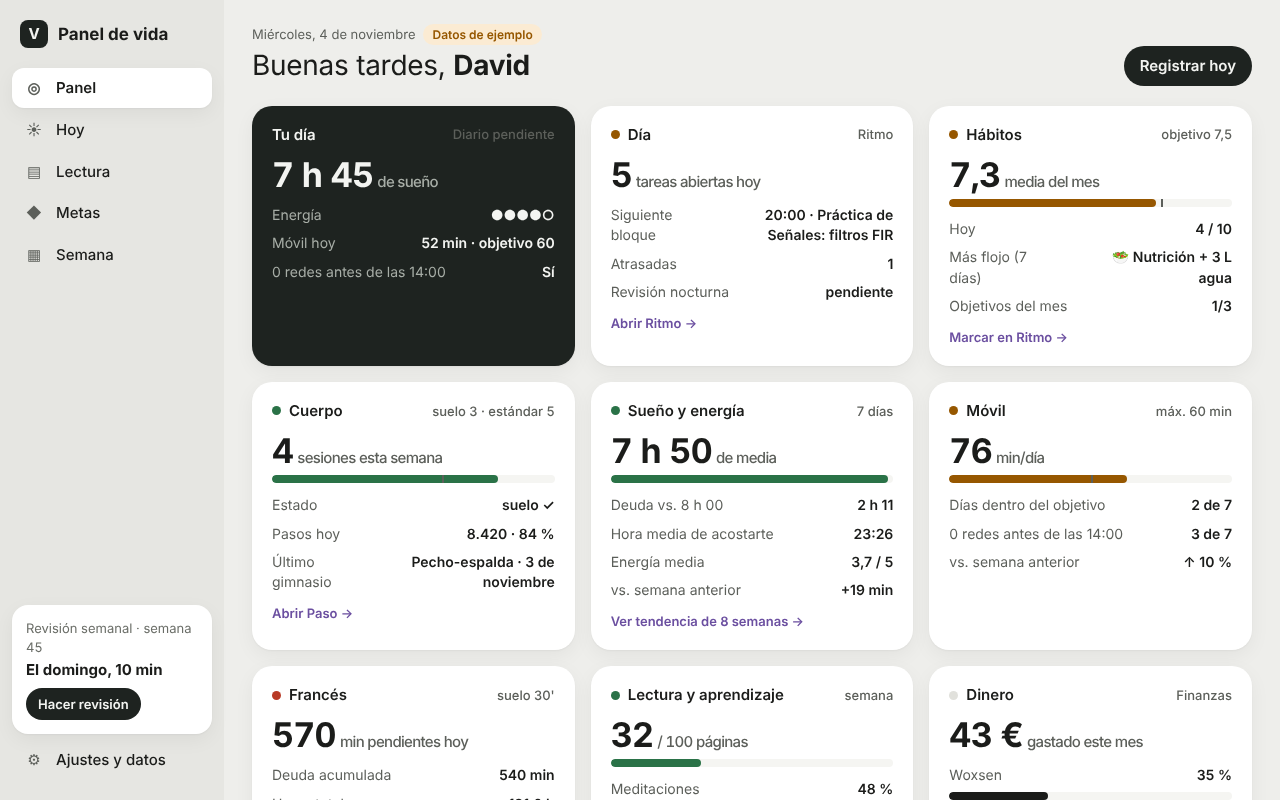
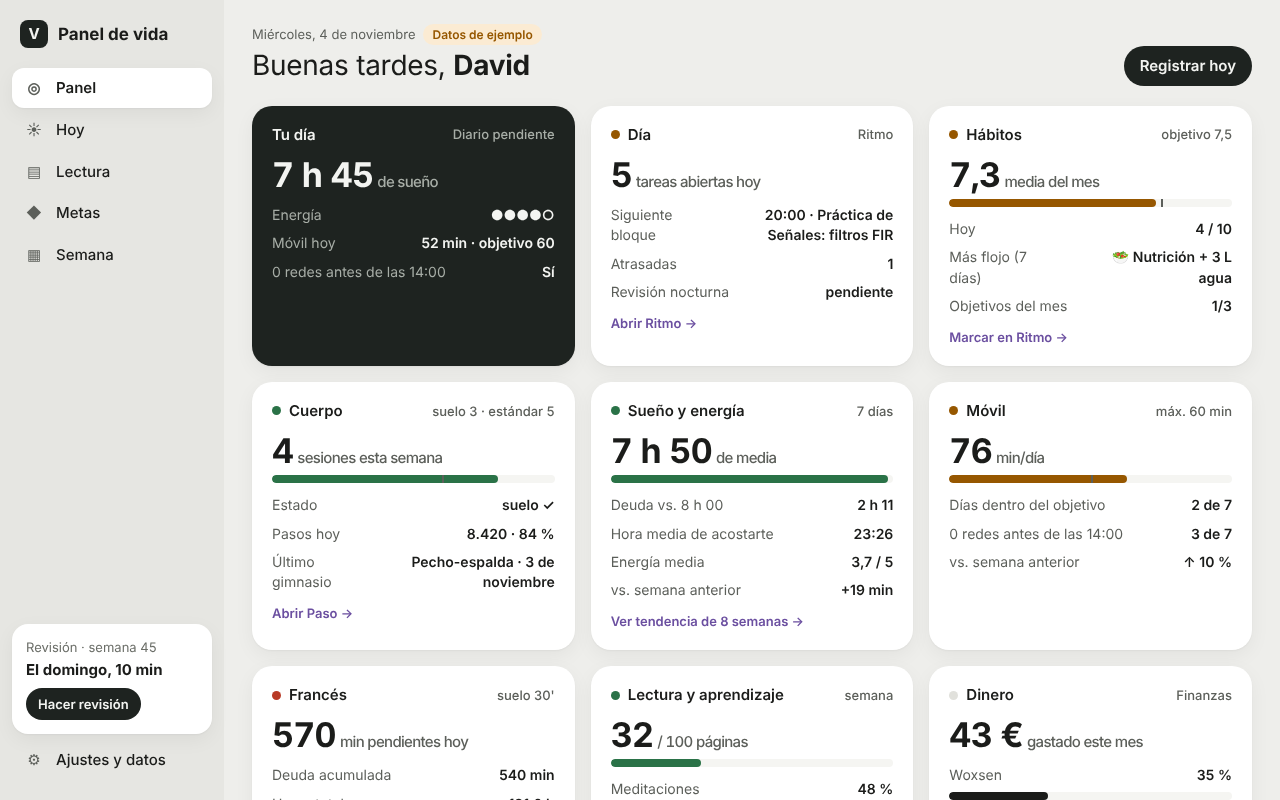
Revisión QA del Panel y de la capa sin conexión (34 fallos) + Importar salud en la caché sin conexión
- Panel: un dato raro de otra app ya no deja la página en blanco, horas sin perder dígitos, foco con teclado,
  correcciones de lectura, demo que no borra tus datos, revisión del lunes de madrugada, fechas locales (India)
- sw.js: sin fallos con red lenta, deploys visibles al momento, versión por hash, carpetas sin barra
- 29: no sobrescribe datos dañados de Paso o del Panel; incluida en la caché sin conexión

Claude-Session: https://claude.ai/code/session_01EwHxjkazRTL95ooTegBwNP

Changed region(s): [[0.0, 0.75, 0.1875, 0.8125], [0.3438, 0.1562, 0.4375, 0.1875]]

diff --git a/28-panel-vida/tests/smoke.js b/28-panel-vida/tests/smoke.js
@@ -155,7 +155,93 @@ function check(c, msg) { if (!c) throw new Error("FALLO: " + msg); }
       check(over <= 0, `scroll horizontal a 360 px en ${r} (${scheme}): ${over}px`);
     }
   }
+
+  // 10 · regresiones de la revisión QA (contextos aparte: no tocan las capturas)
+  const SPY = () => {
+    const set = Storage.prototype.setItem, del = Storage.prototype.removeItem, clr = Storage.prototype.clear;
+    const log = (k) => { const a = JSON.parse(sessionStorage.getItem("__w") || "[]"); a.push(k); set.call(sessionStorage, "__w", JSON.stringify(a)); };
+    Storage.prototype.setItem = function (k, v) { if (this === localStorage) log(k); return set.call(this, k, v); };
+    Storage.prototype.removeItem = function (k) { if (this === localStorage) log("-" + k); return del.call(this, k); };
+    Storage.prototype.clear = function () { if (this === localStorage) log("CLEAR"); return clr.call(this); };
+  };
+  const writes = async (pg) => JSON.parse(await pg.evaluate(() => sessionStorage.getItem("__w") || "[]"));
+  const qa = await browser.newContext({ viewport: { width: 1280, height: 800 }, locale: "es-ES", timezoneId: "Europe/Madrid", acceptDownloads: true });
+  await qa.addInitScript((f) => { if (!sessionStorage.getItem("__seeded")) { sessionStorage.setItem("__seeded", "1"); for (const [k, v] of Object.entries(f)) localStorage.setItem(k, v); } }, foreign);
+  await qa.addInitScript(SPY);
+  const a = await qa.newPage(); a.on("pageerror", (e) => errors.push("qa: " + e.message)); a.on("dialog", (d) => d.accept());
+  await a.clock.install({ time: new Date("2026-11-04T19:10:00+01:00") });
+  await a.goto(URL + "#/hoy"); await a.waitForSelector("[data-day]");
+  // a) cambiar la hora no redibuja el campo (en Chrome «change» llega a mitad de escribir) y el cálculo se actualiza
+  await a.evaluate(() => { const i = document.querySelector('[data-f="bed"]'); i.__same = 1; i.focus(); i.value = "23:04"; i.dispatchEvent(new Event("change", { bubbles: true })); });
+  check(await a.evaluate(() => document.querySelector('[data-f="bed"]').__same === 1 && document.activeElement.dataset.f === "bed"), "el campo de hora sigue siendo el mismo y con el foco");
+  await a.evaluate(() => { const i = document.querySelector('[data-f="wake"]'); i.value = "07:04"; i.dispatchEvent(new Event("change", { bubbles: true })); });
+  check((await a.textContent("#sleepCalc")).includes("8 h 00") && (await a.textContent("#hoyWeek")).includes("8 h 00"), "horas dormidas y tabla al día sin redibujar");
+  // b) energía con teclado: el foco se queda en el botón
+  await a.focus('[data-energy="3"]'); await a.keyboard.press("Enter");
+  check(await a.evaluate(() => document.activeElement.dataset.energy === "3" && document.activeElement.getAttribute("aria-pressed") === "true"), "energía con Enter conserva el foco");
+  await a.keyboard.press("Tab"); await a.keyboard.press("Space");
+  check(JSON.parse(await a.evaluate(() => localStorage.getItem("panel.v1"))).days[T].energy === 4, "energía con Tab + Espacio");
+  // c) «Voy por» vacío no devuelve el libro a la página 0
+  await a.goto(URL + "#/lectura"); await a.fill('#bookForm [name="title"]', "Cartas a Lucilio"); await a.fill('#bookForm [name="total"]', "300"); await a.click("#bookForm button");
+  await a.goto(URL + "#/hoy"); await a.fill('form[data-read] [name="p"]', "40"); await a.click("form[data-read] button");
+  await a.fill('form[data-read] [name="p"]', ""); await a.fill('form[data-read] [name="m"]', "20"); await a.click("form[data-read] button");
+  st = JSON.parse(await a.evaluate(() => localStorage.getItem("panel.v1")));
+  check(st.books[0].progress === 40 && st.readLog.reduce((x, r) => x + r.amount, 0) === 40, "minutos sin página: el libro sigue en la 40");
+  // d) uso normal (revisión, metas, ajustes, ejemplo y quitarlo, exportar) solo escribe panel.v1
+  await a.goto(URL + "#/semana"); await a.click('[data-score="7"]'); await a.click("#reviewForm button.primary");
+  check(/^2026-11-04 19:10$/.test(JSON.parse(await a.evaluate(() => localStorage.getItem("panel.v1"))).reviews["2026-W45"].at), "hora de la revisión en hora local");
+  await a.goto(URL + "#/ajustes"); await a.fill('#setForm [name="pagesWeekGoal"]', ""); await a.click("#setForm button.primary");
+  check(JSON.parse(await a.evaluate(() => localStorage.getItem("panel.v1"))).settings.pagesWeekGoal === 100, "campo vacío conserva el valor");
+  await a.click("#loadDemo"); await a.waitForSelector("#clearDemo"); await a.click("#clearDemo"); await a.waitForSelector("#loadDemo");
+  st = JSON.parse(await a.evaluate(() => localStorage.getItem("panel.v1")));
+  check(!st.demo && st.books[0].title === "Cartas a Lucilio" && st.reviews["2026-W45"], "quitar los ejemplos devuelve tu Panel");
+  await Promise.all([a.waitForEvent("download"), a.click("#exportPanel")]);
+  for (const r of ["#/panel", "#/metas", "#/lectura"]) { await a.goto(URL + r); await a.waitForSelector(".card"); }
+  const w = await writes(a);
+  check(w.length > 5 && w.every((k) => k === "panel.v1"), "solo se escribe panel.v1: " + [...new Set(w)]);
+  for (const k of Object.keys(foreign)) check((await a.evaluate((x) => localStorage.getItem(x), k)) === foreign[k], "uso normal no toca " + k);
+  // e) dos pestañas: lo que apuntas en una aparece en la otra
+  const b2 = await qa.newPage(); b2.on("pageerror", (e) => errors.push("qa2: " + e.message));
+  await b2.clock.install({ time: new Date("2026-11-04T19:10:00+01:00") });
+  await b2.goto(URL + "#/hoy"); await b2.waitForSelector("[data-day]");
+  await a.goto(URL + "#/hoy"); await a.click('[data-energy="2"]');
+  await b2.waitForFunction(() => document.querySelector('[data-energy="2"]').getAttribute("aria-pressed") === "true");
+  await b2.fill('[data-j="good"]', "desde la otra pestaña"); await b2.locator('[data-j="good"]').dispatchEvent("change");
+  st = JSON.parse(await a.evaluate(() => localStorage.getItem("panel.v1")));
+  check(st.days[T].energy === 2 && st.days[T].journal.good === "desde la otra pestaña", "dos pestañas sin pisarse");
+  await b2.close();
+  // f) copia: claves desconocidas ignoradas, las 9 apps de ida y vuelta
+  const all = { ...foreign, "panel.v1": await a.evaluate(() => localStorage.getItem("panel.v1")), "mapaviajes.v1": '{"places":[]}', "mecanografia.v1": '{"best":40}', "gymtracker.v1": foreign["gymtracker.v1"] };
+  const bk = { format: "mix-ideas-backup", version: 1, exportedAt: "2026-11-01 10:00", data: Object.fromEntries(Object.entries(all).map(([k, v]) => [k, JSON.parse(v)])) };
+  bk.data["otra.app"] = { x: 1 }; bk.data["panel.v1"].settings.name = "Restaurado";
+  await a.goto(URL + "#/ajustes"); await a.click("#restoreAll");
+  await a.setInputFiles("#fileIn", { name: "c.json", mimeType: "application/json", buffer: Buffer.from(JSON.stringify(bk)) });
+  await a.waitForFunction(() => /Restaurado/.test(localStorage.getItem("panel.v1") || ""));
+  check((await a.evaluate(() => localStorage.getItem("otra.app"))) === null && (await a.evaluate(() => localStorage.getItem("mecanografia.v1"))) === '{"best":40}', "restaura las 9 claves e ignora las desconocidas");
+  // g) datos dañados: aviso, nada se guarda, descarga del texto y «Empezar de cero»
+  await a.evaluate(() => localStorage.setItem("panel.v1", "{roto"));
+  await a.goto(URL + "#/hoy"); await a.reload(); await a.waitForSelector("#banner:not([hidden])");
+  await a.click('[data-energy="5"]');
+  check((await a.evaluate(() => localStorage.getItem("panel.v1"))) === "{roto", "con datos dañados no se guarda nada");
+  const [bad] = await Promise.all([a.waitForEvent("download"), a.click("#dlBad")]);
+  check(fs.readFileSync(await bad.path(), "utf8") === "{roto" && /\.txt$/.test(bad.suggestedFilename()), "descarga el texto dañado tal cual");
+  await a.click("#resetBad");
+  check(JSON.parse(await a.evaluate(() => localStorage.getItem("panel.v1"))).goals.length === 6 && (await a.isHidden("#banner")), "empezar de cero");
+  await qa.close();
+  // h) India, lunes a las 00:30: «Semana» abre la revisión pendiente de la semana pasada y la fecha es la local
+  const ind = await browser.newContext({ viewport: { width: 390, height: 844 }, locale: "es-ES", timezoneId: "Asia/Kolkata" });
+  const k = await ind.newPage(); k.on("pageerror", (e) => errors.push("india: " + e.message));
+  await k.clock.install({ time: new Date("2026-11-09T00:30:00+05:30") }); // domingo 8 a las 20:00 en Madrid
+  await k.goto(URL + "#/semana"); await k.waitForSelector("#reviewForm");
+  check((await k.textContent(".head")).includes("Semana 45"), "a las 00:30 del lunes abre la semana 45: " + (await k.textContent(".head")));
+  await k.click('[data-score="8"]'); await k.click("#reviewForm button.primary");
+  st = JSON.parse(await k.evaluate(() => localStorage.getItem("panel.v1")));
+  check(st.reviews["2026-W45"] && !st.reviews["2026-W46"] && st.reviews["2026-W45"].at === "2026-11-09 00:30", "revisión guardada en la semana 45 con hora de la India");
+  await k.goto(URL + "#/hoy"); await k.waitForSelector("[data-day]");
+  check((await k.getAttribute("[data-day]", "data-day")) === "2026-11-09" && (await k.textContent(".head h1")).includes("Lunes, 9 de noviembre"), "fecha local en la India");
+  await ind.close();
+
   check(errors.length === 0, "errores: " + errors.join(" | "));
   await browser.close();
-  console.log("smoke OK · registro diario, lectura, metas, revisión semanal, copia de 7 apps, 8 rutas a 360 px en claro y oscuro");
+  console.log("smoke OK · registro diario, lectura, metas, revisión semanal, copia de 7 apps, 8 rutas a 360 px en claro y oscuro · solo escribe panel.v1, teclado, dos pestañas, copia de 9 apps, datos dañados, India a las 00:30 del lunes");
 })().catch((e) => { console.error(e); process.exit(1); });

diff --git a/28-panel-vida/app.js b/28-panel-vida/app.js
@@ -128,7 +128,7 @@
     $("#tabbar").innerHTML = NAV.map(([k, label, ico]) => `<a href="#/${k}" data-nav="${k}" ${cur === k ? 'aria-current="page"' : ""}><span class="ico" aria-hidden="true">${ico}</span>${label}</a>`).join("");
     const aj = $(".side-link"); if (cur === "ajustes") aj.setAttribute("aria-current", "page"); else aj.removeAttribute("aria-current");
     const t = today(), ref = P.reviewDefault(S, t), late = ref !== t, wk = P.isoWeek(ref), done = !!S.reviews[wk];
-    $("#sideCard").innerHTML = `<span class="faint">Revisión semanal · semana ${Number(wk.slice(6))}</span><b>${done ? "Hecha ✓" : late ? "Te falta la de la semana pasada" : P.dow(t) >= 5 ? "Te toca este finde" : "El domingo, 10 min"}</b><a class="btn small ${done ? "" : "primary"}" href="${late ? `#/semana?d=${ref}` : "#/semana"}" style="text-decoration:none;display:inline-flex;align-items:center">${done ? "Ver" : "Hacer revisión"}</a>`;
+    $("#sideCard").innerHTML = `<span class="faint">Revisión · semana ${Number(wk.slice(6))}</span><b>${done ? "Hecha ✓" : late ? "Te falta la de la semana pasada" : P.dow(t) >= 5 ? "Te toca este finde" : "El domingo, 10 min"}</b><a class="btn small ${done ? "" : "primary"}" href="${late ? `#/semana?d=${ref}` : "#/semana"}" style="text-decoration:none;display:inline-flex;align-items:center">${done ? "Ver" : "Hacer revisión"}</a>`;
   }
   function render() {
     const r = route();
@@ -173,6 +173,7 @@
     const e = S.days[t] || {}, sl = P.sleepStats(S, last7), slPrev = P.sleepStats(S, prev7), sc = P.screenStats(S, last7), scPrev = P.screenStats(S, prev7);
     const night = P.sleepMinutes(e), wk = P.isoWeek(t), prevWk = P.isoWeek(P.addDays(t, -7));
     const snap = P.weekSnapshot(S, t, t, weekExt(t, t, X)), L = P.lights(snap, S.settings);
+    if (!S.books.length && !snap.pages) L.lectura = null; // nothing to read yet: grey, not red
     const out = [];
     out.push(header(P.fmtLong(t), `${greeting()}, <b>${esc(S.settings.name)}</b>`, `<a class="btn primary" href="#/hoy" style="text-decoration:none;display:inline-flex;align-items:center">Registrar hoy</a>`));
     // review callout (weekend or Monday) + priorities of this week
@@ -185,7 +186,7 @@
     // hero "tu día"
     const jd = P.journalDone(e);
     out.push(`<section class="card dark c4" aria-label="Tu día"><h2>Tu día <span class="right">${jd ? "Diario ✓" : "Diario pendiente"}</span></h2>
-      <div class="kpi" style="margin-top:10px">${night !== null ? h(night) : "—"}<small>de sueño</small></div>
+      ${night !== null ? `<div class="kpi" style="margin-top:10px">${h(night)}<small>de sueño</small></div>` : '<p class="kpi-empty">Sueño de anoche sin apuntar</p>'}
       <div class="rows">
         <div class="row"><span>Energía</span><b>${e.energy ? "●".repeat(e.energy) + "○".repeat(5 - e.energy) : "sin apuntar"}</b></div>
         <div class="row"><span>Móvil hoy</span><b>${e.screenMin !== undefined ? `${e.screenMin} min · objetivo ${S.settings.screenGoalMin}` : "sin apuntar"}</b></div>
@@ -361,7 +362,7 @@
       const ge = goalExt(t, X, g), p = P.goalProgress(g, t, ge), l = p.status === "en-ritmo" || p.status === "hecho" ? "ok" : p.status === "atrasada" || p.status === "vencida" ? "bad" : "";
       return `<div class="item"><div class="item-top"><span class="t">${esc(g.title)}</span>${chipL(l, P.STATUS_LABEL[p.status])}</div>
         ${pctBar(p.pct, l, p.expected)}
-        <div class="meta"><span>${esc(p.label)}</span>${g.deadline ? `<span>${p.daysLeft >= 0 ? `quedan ${p.daysLeft} días (${P.fmtDay(g.deadline)} ${g.deadline.slice(0, 4)})` : `venció el ${P.fmtDay(g.deadline)}`}</span>` : ""}${p.expected !== null && p.status !== "hecho" ? `<span>deberías ir por el ${Math.round(p.expected * 100)} %</span>` : ""}${g.auto ? `<span>auto: ${esc(P.AUTO[g.auto])}${ge[g.auto] == null ? " (sin datos)" : ""}</span>` : ""}</div>
+        <div class="meta"><span>${esc(p.label)}</span>${g.deadline ? `<span>${p.daysLeft >= 0 ? `quedan ${p.daysLeft} días (${P.fmtDay(g.deadline)} ${g.deadline.slice(0, 4)})` : `venció el ${P.fmtDay(g.deadline)}`}</span>` : ""}${p.expected !== null && p.expected >= 0.01 && p.status !== "hecho" ? `<span>deberías ir por el ${Math.round(p.expected * 100)} %</span>` : ""}${g.auto ? `<span>auto: ${esc(P.AUTO[g.auto])}${ge[g.auto] == null ? " (sin datos)" : ""}</span>` : ""}</div>
         ${g.kind === "hito" ? `<div class="steps">${g.steps.map((s, i) => `<label class="check"><input type="checkbox" data-gstep="${g.id}" data-i="${i}" ${s.done ? "checked" : ""}> ${esc(s.text)}</label>`).join("")}</div>` : ""}
         <div class="actions" style="margin-top:4px">${g.kind === "numero" && !g.auto ? `<label class="field" style="flex-direction:row;display:flex;align-items:center;gap:8px">Llevo<input class="inline" style="width:110px" type="number" step="any" min="0" data-gcur="${g.id}" value="${g.current}" aria-label="Valor actual de ${esc(g.title)}"></label>` : ""}
           ${g.kind === "hito" ? `<button class="btn small ${g.done ? "" : "primary"}" data-gdone="${g.id}">${g.done ? "Reabrir" : "Marcar hecha"}</button>` : ""}
@@ -396,6 +397,7 @@
   function vSemana(t, X, r) {
     const ref = r.d && r.d <= t ? r.d : P.reviewDefault(S, t), ws = P.weekStart(ref), wk = P.isoWeek(ref), days = P.weekDays(ref).filter((d) => d <= t);
     const snap = P.weekSnapshot(S, ref, t, weekExt(ref, t, X)), L = P.lights(snap, S.settings), rv = S.reviews[wk];
+    if (!S.books.length && !snap.pages) L.lectura = null;
     const prevPri = (S.reviews[P.isoWeek(P.addDays(ws, -7))] || {}).priorities || [];
     const rowsA = [
       ["Sueño medio", snap.sleepAvgMin != null ? h(snap.sleepAvgMin) : null, L.sueno],
@@ -458,6 +460,7 @@
   }
 
   // ───────────── AJUSTES
+  const standalone = () => { try { return navigator.standalone === true || matchMedia("(display-mode: standalone)").matches; } catch (e) { return false; } };
   function vAjustes(t) {
     const st = S.settings, present = P.APP_KEYS.filter(({ key }) => store.get(key) != null);
     return header("Ajustes y datos", "<b>Ajustes</b>") + `<div class="grid">
@@ -474,7 +477,8 @@
       <section class="card c6"><h2>Copia de seguridad de TODAS tus apps</h2>
         <p class="sub">Un solo fichero con los datos de ${P.APP_KEYS.length} apps del repo. Hoy hay datos de: ${present.map((x) => esc(x.app)).join(", ") || "ninguna"}.</p>
         <div class="actions"><button class="btn primary" id="backupAll">Descargar copia completa</button><button class="btn" id="restoreAll">Restaurar copia…</button></div>
-        <p class="faint" style="margin-top:10px">Haz una copia cada semana (por ejemplo, al terminar la revisión) y guárdala en la nube. Todo vive en este navegador: si borras sus datos o cambias de móvil, se pierde.</p></section>
+        <p class="faint" style="margin-top:10px">Haz una copia cada semana (por ejemplo, al terminar la revisión) y guárdala en la nube. Todo vive en este navegador: si borras sus datos o cambias de móvil, se pierde.</p>
+        ${standalone() ? '<p class="callout" style="margin:12px 0 0">Estás en la app de la pantalla de inicio. En el iPhone guarda sus datos aparte de Safari: si antes usabas las apps en Safari, descarga allí la copia completa y restáurala aquí.</p>' : ""}</section>
       <section class="card c12"><h2>Datos del Panel</h2>
         <div class="actions"><button class="btn" id="exportPanel">Exportar solo el Panel (JSON)</button><button class="btn" id="importPanel">Importar Panel…</button>
         ${S.demo ? '<button class="btn" id="clearDemo">Quitar datos de ejemplo</button>' : '<button class="btn" id="loadDemo">Cargar datos de ejemplo</button>'}

diff --git a/29-importar-salud/app.js b/29-importar-salud/app.js
@@ -77,7 +77,8 @@
   $("#doImport").onclick = () => {
     const t = today(), over = $("#overwrite").checked;
     // Paso
-    let paso; try { paso = PA.migrate(JSON.parse(get("paso.v1") || "null"), t); } catch (e) { alert("Los datos de Paso están dañados: ábrelo y revísalo antes de importar. No se ha cambiado nada."); return; }
+    const rawPaso = get("paso.v1");
+    let paso; try { const o = rawPaso ? JSON.parse(rawPaso) : {}; if (!o || typeof o !== "object" || Array.isArray(o)) throw new Error("x"); paso = PA.migrate(o, t); } catch (e) { alert("Los datos de Paso están dañados: ábrelo y revísalo antes de importar. No se ha cambiado nada."); return; }
     const rows = preview.filter((d) => d.steps).map((d) => ({ date: d.date, steps: d.steps }));
     const ms = PA.mergeSteps(paso, rows, "health", { overwriteManual: over });
     paso = ms.data;
@@ -89,7 +90,7 @@
     }
     // Panel
     let panel; const rawP = get("panel.v1");
-    try { panel = rawP ? PL.migrate(JSON.parse(rawP)) : Object.assign(PL.emptyState(), { goals: PL.starterGoals(t) }); } catch (e) { alert("Los datos del Panel están dañados: ábrelo y revísalo antes de importar. No se ha cambiado nada."); return; }
+    try { if (rawP) { const o = JSON.parse(rawP); if (!o || typeof o !== "object" || Array.isArray(o)) throw new Error("x"); panel = PL.migrate(o); } else panel = Object.assign(PL.emptyState(), { goals: PL.starterGoals(t) }); } catch (e) { alert("Los datos del Panel están dañados: ábrelo y revísalo antes de importar. No se ha cambiado nada."); return; }
     let nights = 0, keptNights = 0;
     for (const d of preview) {
       if (!d.bed) continue;

diff --git a/herramientas/test_pwa.js b/herramientas/test_pwa.js
@@ -10,7 +10,7 @@ const path = require("path");
 const ROOT = path.resolve(__dirname, "..");
 const TYPES = { ".html": "text/html; charset=utf-8", ".js": "text/javascript", ".css": "text/css", ".png": "image/png", ".webmanifest": "application/manifest+json", ".json": "application/json", ".md": "text/markdown; charset=utf-8" };
 const PREFIX = "/Mix_ideas"; // same path shape as GitHub Pages
-const APPS = ["28-panel-vida/", "26-ritmo/", "27-paso/", "15-habitos/app/", "10-gym-tracker/", "21-idiomas-plan/", "11-finanzas/", "12-mapa-viajes/", "25-habilidades/mecanografia/"];
+const APPS = ["28-panel-vida/", "26-ritmo/", "27-paso/", "15-habitos/app/", "10-gym-tracker/", "21-idiomas-plan/", "11-finanzas/", "12-mapa-viajes/", "25-habilidades/mecanografia/", "29-importar-salud/"];
 const SW_SRC = fs.readFileSync(path.join(ROOT, "sw.js"), "utf8");
 const FILES = JSON.parse(SW_SRC.match(/const FILES = (\[[\s\S]*?\]);/)[1]);
 const VERSION = SW_SRC.match(/const VERSION = "(\w+)";/)[1];

diff --git a/28-panel-vida/styles.css b/28-panel-vida/styles.css
@@ -62,7 +62,8 @@ main { padding: 24px 28px 48px; min-width: 0; outline: none; }
 .card h2 .right { margin-left: auto; font-weight: 500; color: var(--ink-2); font-size: 13px; }
 .card .sub { font-size: 13px; color: var(--ink-2); margin-top: 2px; }
 .card.dark { background: var(--dark); color: var(--on-dark); }
-.card.dark .muted, .card.dark .sub, .card.dark .faint { color: var(--on-dark-2); }
+.card.dark .muted, .card.dark .sub, .card.dark .faint, .card.dark h2 .right { color: var(--on-dark-2); }
+.kpi-empty { margin-top: 12px; font-size: 18px; font-weight: 600; color: var(--on-dark-2); }
 .kpi { font-size: 34px; font-weight: 700; letter-spacing: -.02em; line-height: 1.1; font-variant-numeric: tabular-nums; }
 .kpi small { font-size: 15px; font-weight: 500; color: var(--ink-2); margin-left: 4px; }
 .card.dark .kpi small { color: var(--on-dark-2); }

diff --git a/sw.js b/sw.js
@@ -6,7 +6,7 @@
    - A file that cannot be downloaded during the install keeps its copy from the previous version.
    - Slow network and nothing cached: it keeps waiting for the network instead of failing at 4 s.
    - Folders: "app/" and "app/index.html" are the same page offline; "app" (no final slash) is sent to "app/". */
-const VERSION = "b95b05441bfa";
+const VERSION = "3cac76f315ab";
 const CACHE = "mix-ideas-" + VERSION;
 const TIMEOUT_MS = 4000;
 const FILES = [
@@ -57,6 +57,10 @@ const FILES = [
  "25-habilidades/mecanografia/",
  "25-habilidades/mecanografia/index.html",
  "25-habilidades/mecanografia/logic.js",
+ "29-importar-salud/",
+ "29-importar-salud/app.js",
+ "29-importar-salud/index.html",
+ "29-importar-salud/logic.js",
  "icons/apple-touch-icon.png",
  "icons/icon-192.png",
  "icons/icon-512.png",

diff --git a/29-importar-salud/index.html b/29-importar-salud/index.html
@@ -16,6 +16,10 @@
   ol.steps-guide { padding-left: 20px; font-size: 14px; display: grid; gap: 4px; margin: 10px 0 0; }
   @media (max-width: 820px) { main { padding-bottom: 32px; } }
 </style>
+<!-- pwa -->
+<link rel="apple-touch-icon" href="../icons/apple-touch-icon.png">
+<meta name="apple-mobile-web-app-capable" content="yes">
+<script src="../pwa.js" defer></script>
 </head>
 <body>
 <main id="main" tabindex="-1">

diff --git a/herramientas/preparar_pwa.py b/herramientas/preparar_pwa.py
@@ -19,7 +19,7 @@ from pathlib import Path
 ROOT = Path(__file__).resolve().parents[1]
 APPS = [
     "28-panel-vida", "26-ritmo", "27-paso", "15-habitos/app", "10-gym-tracker",
-    "21-idiomas-plan", "11-finanzas", "12-mapa-viajes", "25-habilidades/mecanografia",
+    "21-idiomas-plan", "11-finanzas", "12-mapa-viajes", "25-habilidades/mecanografia", "29-importar-salud",
 ]
 MARK = "<!-- pwa -->"
 

diff --git a/28-panel-vida/README.md b/28-panel-vida/README.md
@@ -7,7 +7,7 @@ La portada de todas tus apps: **tu vida en una pantalla**, por áreas de tus vis
 |---|---|---|
 | **Panel** | Mirar (30 s al día) | Tarjetas de Día (Ritmo), Hábitos, Cuerpo (deporte suelo 3 / estándar 5, pasos, gimnasio), Sueño y energía, Móvil, Francés, Lectura, Dinero, Metas y cuenta atrás (Woxsen, media maratón, prácticas, Ironman), más los accesos a tus 8 apps |
 | **Hoy** | Apuntar sueño (me acosté / me levanté), energía 1-5, minutos de móvil y «0 redes antes de las 14:00», **diario de 3 líneas** y el avance de lectura | Horas dormidas, racha de diario, últimos 7 días |
-| **Lectura** | Añadir libros (páginas) y cursos (lecciones) | Páginas de la semana frente a tu objetivo, % de cada libro y **cuándo lo acabas** a tu ritmo de 2 semanas |
+| **Lectura** | Añadir libros (páginas) y cursos (lecciones) | Páginas de la semana frente a tu objetivo, % de cada libro y **cuándo lo acabas** a tu ritmo de las últimas 2 semanas |
 | **Metas** | Metas con número («llevo X de Y») o hitos con pasos, con fecha | Barra de progreso + **marca de dónde deberías ir** → «En ritmo» / «Atrasada». Algunas se calculan solas desde tus apps |
 | **Semana** | El domingo, 10 min: nota 1-10, 3 victorias, 1 lección, 3 prioridades | Foto automática de la semana de **todas** tus apps con semáforos + tu diario de la semana. Las prioridades salen luego en el Panel |
 | **Ajustes** | Tus objetivos (sueño 8 h, acostarte 23:30, móvil 60 min, 100 páginas/semana, 180 min de cursos) | **Copia de seguridad de las 9 apps en un solo fichero** y restauración |
@@ -17,7 +17,7 @@ La portada de todas tus apps: **tu vida en una pantalla**, por áreas de tus vis
 
 ## Cómo usarlo
 - **Doble clic en `index.html`** (o en el `index.html` de la raíz del repo, que redirige aquí). Mejor aún, en GitHub Pages: `https://davidcormar.github.io/Mix_ideas/` → en Safari, Compartir → «Añadir a pantalla de inicio».
-- **Primera vez:** ya vienen 6 metas sacadas de tus visiones (5K < 26:00, suelo de deporte, horas de francés al B2, media de hábitos, 12 libros, preparar Woxsen). En *Ajustes* puedes «Cargar datos de ejemplo» para verlo lleno (solo toca el Panel) y luego quitarlos.
+- **Primera vez:** el Panel te dice el primer paso (1 minuto en *Hoy*) y ya trae 6 metas sacadas de tus visiones (5K < 26:00, suelo de deporte, horas de francés al B2, media de hábitos, 12 libros, preparar Woxsen; las que tienen fecha fija dejan de salir cuando esa fecha ha pasado). En *Ajustes* puedes «Cargar datos de ejemplo» (ficticios) para verlo lleno: tu Panel se guarda aparte y vuelve tal cual al pulsar «Quitar datos de ejemplo». Tus otras apps no se tocan.
 - **Rutina sugerida:**
   - Por la mañana (1 min): *Hoy* → hora de acostarte y levantarte + energía.
   - Por la noche (2 min): minutos de móvil (iPhone: *Ajustes → Tiempo de uso*), diario de 3 líneas y páginas leídas. Encaja justo antes de la revisión nocturna de Ritmo.
@@ -26,8 +26,8 @@ La portada de todas tus apps: **tu vida en una pantalla**, por áreas de tus vis
 
 Tests (desde `28-panel-vida/`):
 ```bash
-node --test tests/*.test.js                      # 12 tests de lógica
-NODE_PATH=$(npm root -g) node tests/smoke.js     # recorrido completo en Chromium + capturas
+node --test tests/*.test.js                      # 29 tests de lógica
+NODE_PATH=$(npm root -g) node tests/smoke.js     # recorrido completo en Chromium + capturas + regresiones (ver abajo)
 ```
 
 ## Qué está hecho
@@ -35,22 +35,40 @@ NODE_PATH=$(npm root -g) node tests/smoke.js     # recorrido completo en Chromiu
 - ✅ Registro diario: sueño (cruza medianoche), energía, móvil, 0 redes por la mañana, diario de 3 líneas que se guarda solo, avance de lectura.
 - ✅ Lectura y cursos con previsión de fin; metas con progreso esperado y cálculo automático; revisión semanal con foto de todas las apps.
 - ✅ Copia de seguridad única de las 9 apps (exportar / restaurar con confirmación; una copia inválida no cambia nada).
-- ✅ Modo oscuro, móvil desde 360 px sin scroll horizontal, datos dañados con descarga del texto, 12 tests + smoke test.
+- ✅ Modo oscuro, móvil desde 360 px sin scroll horizontal, datos dañados con descarga del texto, 29 tests de lógica + smoke test.
+- ✅ El smoke test comprueba además que el uso normal solo escribe `panel.v1` (espiando `localStorage.setItem`), el teclado en energía y nota, dos pestañas abiertas, la copia de las 9 apps (las claves desconocidas se ignoran), el aviso de datos dañados y la revisión del lunes a las 00:30 con la hora de la India.
+- ✅ Funciona sin conexión e instalable en la pantalla de inicio (ver «Sin conexión (PWA)»).
 
 ## Qué falta / siguientes pasos
 - Gráficas de tendencia de varias semanas (sueño y móvil) y correlaciones más finas (p. ej. móvil ↔ sueño).
 - Importar el tiempo de pantalla y el sueño directamente de Apple Health (Paso ya sabe leer `export.xml`).
 - Restaurar la copia **fusionando** en vez de sustituir app por app.
+- Sueño en días de viaje o de cambio de hora: se cuenta la hora de reloj (ver «Decisiones»); no hay forma de apuntar «me acosté en Madrid y me levanté en la India».
 - Editar las fechas de la cuenta atrás desde Ajustes (ahora están en `logic.js`, `COUNTDOWNS`).
 
 ## Decisiones
 - **Una sola app, no seis.** Sueño, lectura, diario, metas, revisión y móvil son secciones del Panel: menos sitios donde apuntar y una sola copia de seguridad.
 - **Solo escribe `panel.v1`.** Las demás apps se leen con los mismos lectores de Ritmo (`../26-ritmo/logic.js`) e Idiomas (`../21-idiomas-plan/logic.js`), así los números coinciden en todas partes (deporte: `max(hábito, gimnasio + carreras, tareas de Ritmo)` por día, sin contar dos veces). La única excepción es «Restaurar copia», que pide confirmación y dice qué apps sustituye.
 - **El Panel no marca hábitos.** Los ticks los pone Ritmo o Hábitos; así hay un único escritor de `habitos.v1` además de la propia app 15.
-- **Sueño:** la noche cuenta en el día en que te levantas. Más de 16 h se descarta como error. La hora media de acostarse se calcula desde el mediodía, para que 23:30 y 00:30 queden cerca. Objetivo por defecto 8 h (las recomendaciones generales para adultos jóvenes están entre 7 y 9 h; es información general, no consejo médico).
+- **Sueño:** la noche cuenta en el día en que te levantas. Más de 16 h se descarta como error. La hora media de acostarse se calcula desde el mediodía, para que 23:30 y 00:30 queden cerca. Se cuenta la **hora de reloj**: la noche del cambio de hora (25 oct 2026, 31 oct 2027) duermes 1 h más de lo que sale, y la de marzo 1 h menos; en la India no hay cambio de hora. Así el cálculo no depende de la zona horaria del móvil. Objetivo por defecto 8 h (las recomendaciones generales para adultos jóvenes están entre 7 y 9 h; es información general, no consejo médico: si duermes mal de forma continuada, consúltalo con tu médico).
 - **Energía y sueño:** si hay al menos 2 noches «largas» y 2 «cortas», el resumen compara tu energía media en ambas (te dirá si te compensa acostarte antes).
 - **Móvil:** se apunta a mano en minutos (el iPhone no deja leer Tiempo de uso desde una web). Objetivo 60 min, como tu hábito «Móvil (0 redes <14:00, máx 1 h)».
-- **Metas:** «en ritmo» si vas como mucho 10 puntos por detrás de lo esperado con avance lineal entre «Desde» y la fecha límite. Las automáticas cuentan **desde la fecha «Desde» de la meta**, no desde el 1 de enero, para que una meta nueva no nazca atrasada.
-- **Revisión semanal:** semana ISO de lunes a domingo; se guarda con una foto de los números para poder comparar semanas aunque luego cambien los datos de otras apps.
+- **Metas:** «en ritmo» si vas como mucho 10 puntos por detrás de lo esperado con avance lineal entre «Desde» y la fecha límite. Las automáticas cuentan **desde la fecha «Desde» de la meta**, no desde el 1 de enero, para que una meta nueva no nazca atrasada. Las metas iniciales usan fechas fijas (B2: 5 de junio de 2027, la misma que Idiomas; Woxsen: 6 de enero de 2027) y «fin de año» pasa al año siguiente si quedan menos de 4 semanas.
+- **Lectura:** si corriges la página hacia atrás (una errata, 300 en vez de 30), las páginas se descuentan de los últimos registros de ese libro, así la semana no se queda con páginas fantasma. Dejar «Voy por» vacío y poner solo minutos no cambia la página. La previsión de fin usa el ritmo de los últimos 14 días, o desde el primer registro si el libro es más nuevo (mínimo 7 días).
+- **Semáforos semanales:** una semana a medias se juzga por los días ya terminados (hoy aún cuenta como abierto): el lunes no sale en rojo por llevar 0 sesiones o 0 páginas. Sin libros, la lectura sale en gris, no en rojo.
+- **Revisión semanal:** semana ISO de lunes a domingo; se guarda con una foto de los números para poder comparar semanas aunque luego cambien los datos de otras apps. El lunes (también a las 00:30, si se te hizo tarde el domingo), si la de la semana pasada está pendiente, *Semana* abre esa semana y no la nueva de un día. La hora guardada es la local.
+- **Datos dañados o raros:** si `panel.v1` no se puede leer, no se guarda nada hasta que elijas en el aviso (descargar el texto tal cual en `.txt`, importar un Panel o empezar de cero). Los datos de otras apps con formatos inesperados solo esconden su tarjeta; nunca rompen el Panel ni se modifican. Los números absurdos de un fichero se recortan a los límites de Ajustes.
+- **Copia de seguridad:** cada app debe ser un objeto JSON; lo que no lo sea se ignora. La restauración es «todo o nada»: si el navegador se queda sin espacio a mitad, vuelve a dejar lo que había.
+- **Dos pestañas:** cada cambio en una pestaña se relee en la otra (evento `storage`); lo que estés escribiendo en el diario se guarda encima de lo último, sin pisar lo de la otra pestaña.
 - **Fechas** siempre locales (nunca `toISOString` para el día); la cuenta atrás de prácticas e Ironman es aproximada.
 - Sin frameworks, sin CDN, sin módulos: abre con doble clic.
+
+## Sin conexión (PWA)
+Lo genera `herramientas/preparar_pwa.py` (desde la raíz: `python herramientas/preparar_pwa.py`) y lo comprueba `herramientas/test_pwa.js`, que sirve el repo bajo `/Mix_ideas/` como GitHub Pages.
+
+- **Un solo service worker** (`sw.js` en la raíz) para todo el repo, también para las apps anidadas (`15-habitos/app`, `25-habilidades/mecanografia`). Con doble clic (`file://`) no hace nada: los service workers solo funcionan por http(s).
+- **Red primero:** con conexión siempre ves la última versión (revalida con el servidor aunque GitHub Pages diga «guárdalo 10 minutos»). Sin conexión, o si la red no responde en 4 s, usa la copia guardada; si no hay copia, sigue esperando a la red en vez de fallar.
+- **Cada despliegue** que vuelve a ejecutar `preparar_pwa.py` cambia la versión del `sw.js` (un hash de todos los ficheros): el navegador descarga una copia nueva y completa y borra la vieja. **Vuelve a ejecutarlo tras cambiar cualquier app** antes de subir. Si se te olvida no se rompe nada: la copia se va actualizando al usarla con conexión.
+- **Carpetas:** `app/` y `app/index.html` son la misma página sin conexión, y `app` (sin barra final) te lleva a `app/`.
+- **iPhone:** Safari → Compartir → «Añadir a pantalla de inicio». Ojo: la app de la pantalla de inicio **guarda sus datos aparte de Safari**. Si ya usabas las apps en Safari, descarga allí la copia completa (*Ajustes*) y restáurala en la app instalada; luego usa siempre la instalada (Safari puede borrar los datos de webs que no visitas en 7 días; la app instalada no). *Ajustes* te lo recuerda cuando abres el Panel instalado.
+- Límite conocido: con red muy lenta justo después de un despliegue, una página puede mezclar un fichero nuevo y otro de la versión anterior; recargar lo arregla.
